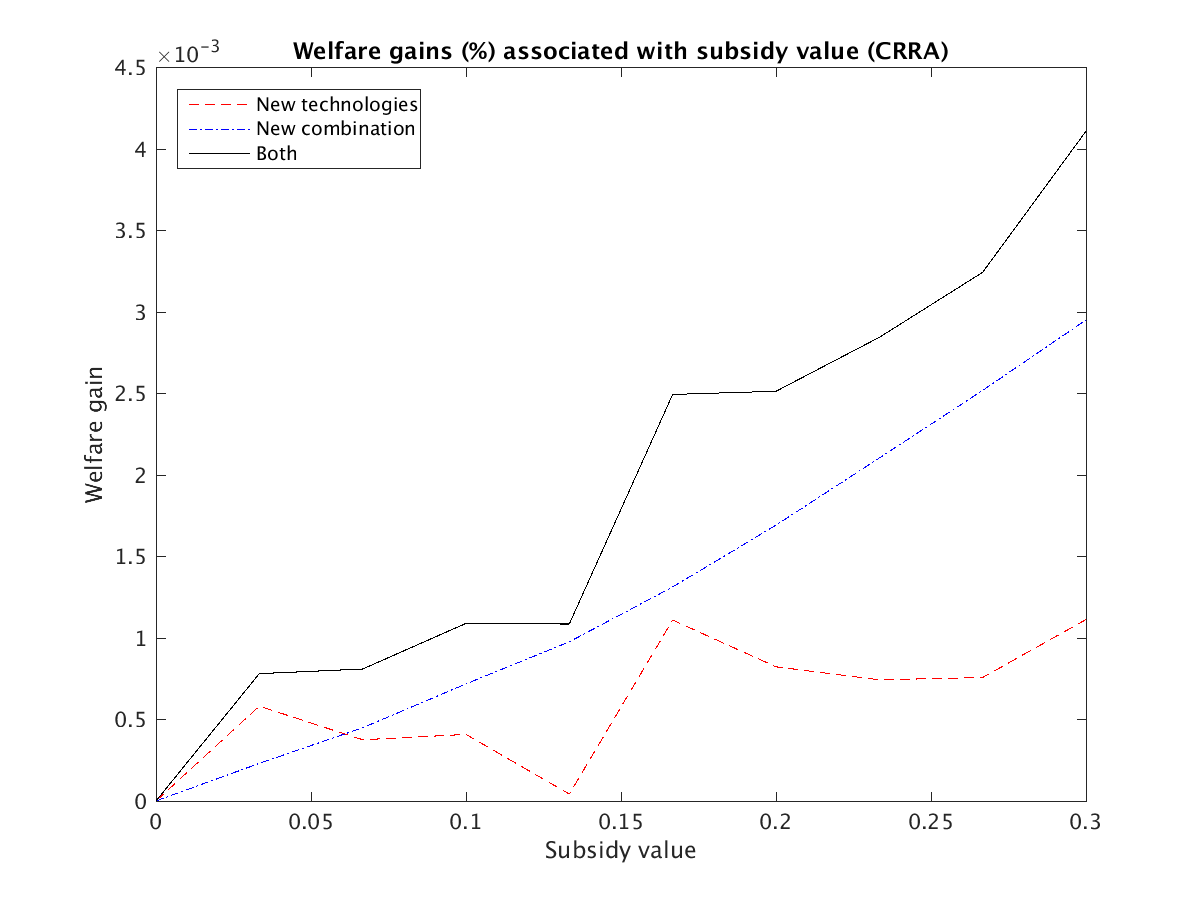
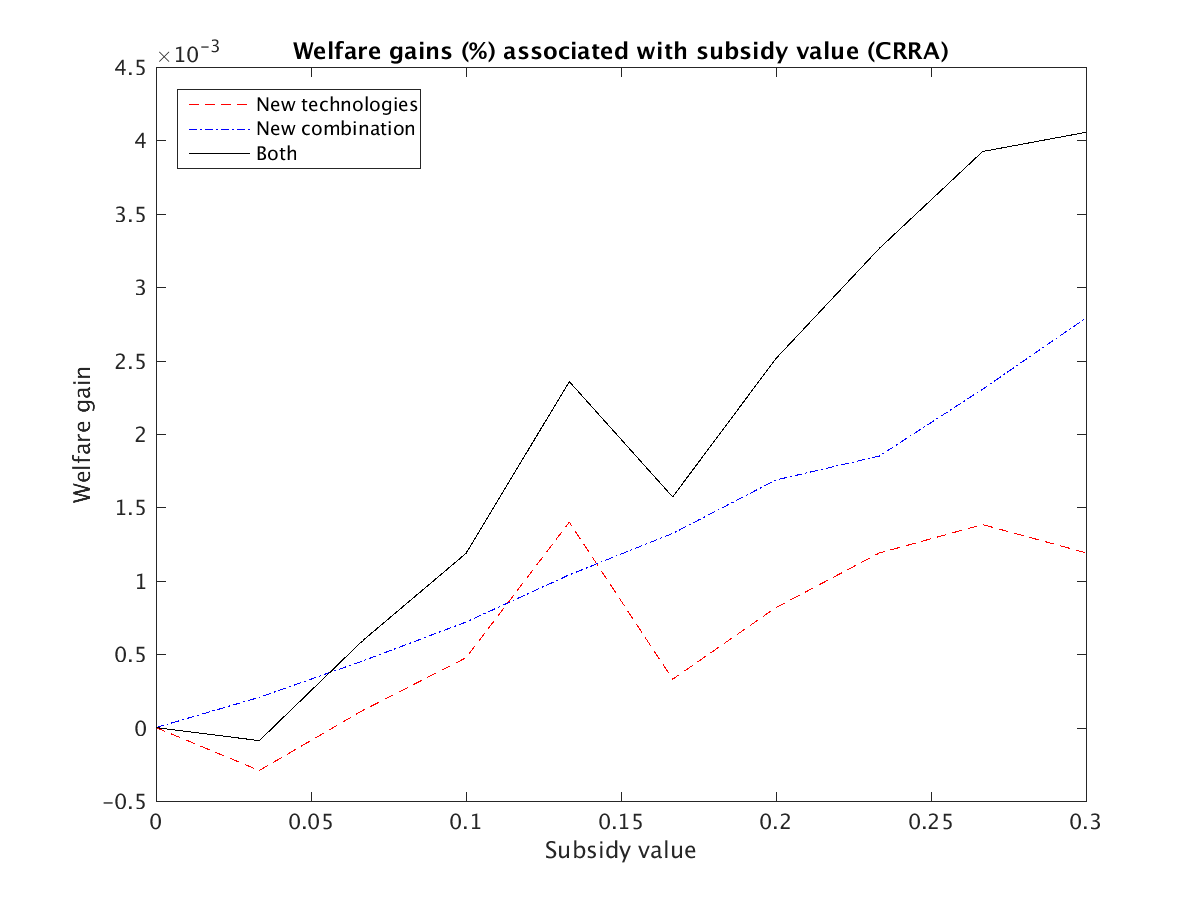
...

diff --git a/simulations/welfare_counterfactuals/optimal_subsidy_ls.m b/simulations/welfare_counterfactuals/optimal_subsidy_ls.m
@@ -30,7 +30,7 @@ g2 = 0.02; % final growth rate of patents
 % define parameters for iterations
 Tmax = 50; % total number of periods
 T_subs = 30; % start subsidy period in 2016
-seed = 1702;
+seed = 10;
 params = v2struct(etaH, etaM, etaL, ttau, phi, llambda, kkappa, xxi, zeta, ggamma, epsilon, rr, nu, nrofinv, g1, g2);
 
 %% Run simulation with no subsidy
